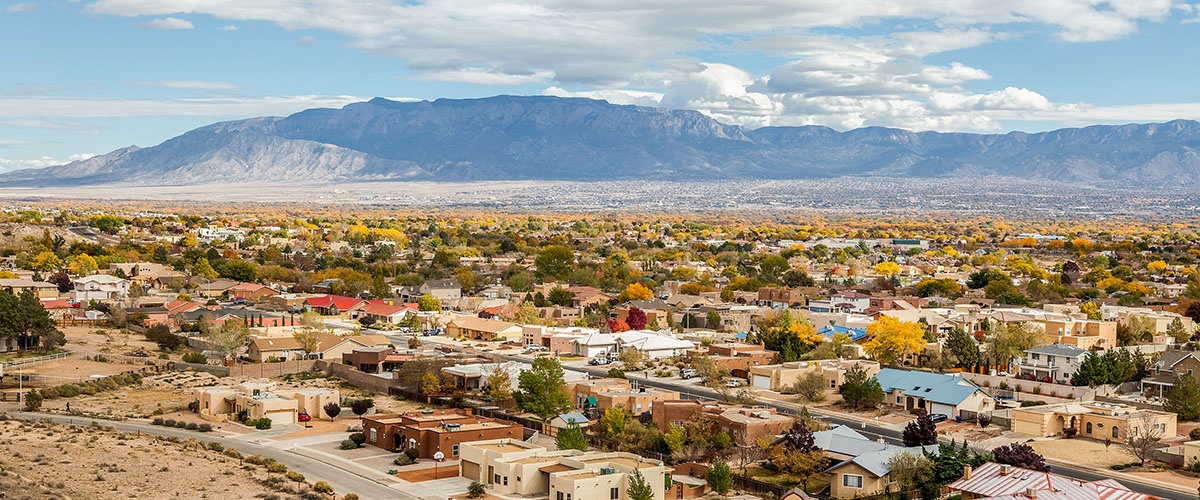
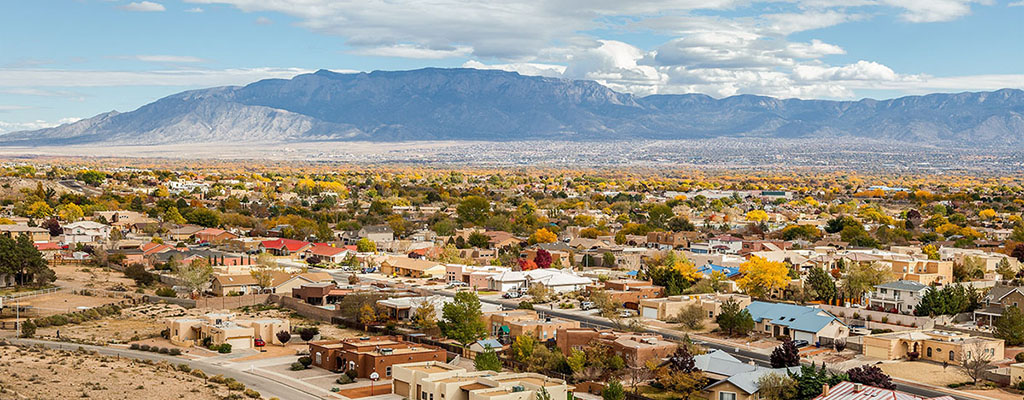
resize images, header hero image

diff --git a/09/css/styles.min.css b/09/css/styles.min.css
@@ -1,1 +1,1 @@
-/*! normalize.css v8.0.1 | MIT License | github.com/necolas/normalize.css */html{line-height:1.15;-webkit-text-size-adjust:100%}body{margin:0}main{display:block}h1{font-size:2em;margin:.67em 0}hr{box-sizing:content-box;height:0;overflow:visible}pre{font-family:monospace,monospace;font-size:1em}a{background-color:rgba(0,0,0,0)}abbr[title]{border-bottom:none;text-decoration:underline;-webkit-text-decoration:underline dotted;text-decoration:underline dotted}b,strong{font-weight:bolder}code,kbd,samp{font-family:monospace,monospace;font-size:1em}small{font-size:80%}sub,sup{font-size:75%;line-height:0;position:relative;vertical-align:baseline}sub{bottom:-0.25em}sup{top:-0.5em}img{border-style:none}button,input,optgroup,select,textarea{font-family:inherit;font-size:100%;line-height:1.15;margin:0}button,input{overflow:visible}button,select{text-transform:none}button,[type=button],[type=reset],[type=submit]{-webkit-appearance:button}button::-moz-focus-inner,[type=button]::-moz-focus-inner,[type=reset]::-moz-focus-inner,[type=submit]::-moz-focus-inner{border-style:none;padding:0}button:-moz-focusring,[type=button]:-moz-focusring,[type=reset]:-moz-focusring,[type=submit]:-moz-focusring{outline:1px dotted ButtonText}fieldset{padding:.35em .75em .625em}legend{box-sizing:border-box;color:inherit;display:table;max-width:100%;padding:0;white-space:normal}progress{vertical-align:baseline}textarea{overflow:auto}[type=checkbox],[type=radio]{box-sizing:border-box;padding:0}[type=number]::-webkit-inner-spin-button,[type=number]::-webkit-outer-spin-button{height:auto}[type=search]{-webkit-appearance:textfield;outline-offset:-2px}[type=search]::-webkit-search-decoration{-webkit-appearance:none}::-webkit-file-upload-button{-webkit-appearance:button;font:inherit}details{display:block}summary{display:list-item}template{display:none}[hidden]{display:none}html{-webkit-text-size-adjust:100%;-ms-text-size-adjust:100%}*{box-sizing:border-box;margin:0;padding:0}body{font-size:16px;font-family:"Source Sans Pro",sans-serif;font-weight:regular}header{padding:.5rem 2vw}header h1{padding:0;margin:0;font-family:"Maven Pro",sans-serif;color:#90493a;font-size:2.5rem}header h2{margin:.5rem 0;color:#745a5d;font-family:"Source Sans Pro",sans-serif;font-size:1.4rem}div#navWrapper{background-color:#018390}nav ul li{list-style-type:none}nav ul li a{display:block;padding:.75rem 2rem;font-size:.9rem;color:#fff;text-decoration:none}nav ul li.active a{background-color:#016c77}nav ul li a:hover{background-color:#019aa9}main{padding:0 2vw}main .swiper{width:100%;height:auto}main .swiper img{width:100%;height:auto}main h2{font-family:"Maven Pro",sans-serif;color:#c76c19;padding:1rem 0;font-size:1.75rem}div#footerWrapper{background-color:#018390}footer{padding:1rem 0}footer p{text-align:center;font-size:.8rem;color:#fff;padding:0}@media only screen and (min-width: 35rem){nav{padding:0 2vw}nav ul{display:flex;flex-direction:row}}@media only screen and (min-width: 64rem){header,nav,main,footer{max-width:75rem;margin:0 auto}}
+/*! normalize.css v8.0.1 | MIT License | github.com/necolas/normalize.css */html{line-height:1.15;-webkit-text-size-adjust:100%}body{margin:0}main{display:block}h1{font-size:2em;margin:.67em 0}hr{box-sizing:content-box;height:0;overflow:visible}pre{font-family:monospace,monospace;font-size:1em}a{background-color:rgba(0,0,0,0)}abbr[title]{border-bottom:none;text-decoration:underline;-webkit-text-decoration:underline dotted;text-decoration:underline dotted}b,strong{font-weight:bolder}code,kbd,samp{font-family:monospace,monospace;font-size:1em}small{font-size:80%}sub,sup{font-size:75%;line-height:0;position:relative;vertical-align:baseline}sub{bottom:-0.25em}sup{top:-0.5em}img{border-style:none}button,input,optgroup,select,textarea{font-family:inherit;font-size:100%;line-height:1.15;margin:0}button,input{overflow:visible}button,select{text-transform:none}button,[type=button],[type=reset],[type=submit]{-webkit-appearance:button}button::-moz-focus-inner,[type=button]::-moz-focus-inner,[type=reset]::-moz-focus-inner,[type=submit]::-moz-focus-inner{border-style:none;padding:0}button:-moz-focusring,[type=button]:-moz-focusring,[type=reset]:-moz-focusring,[type=submit]:-moz-focusring{outline:1px dotted ButtonText}fieldset{padding:.35em .75em .625em}legend{box-sizing:border-box;color:inherit;display:table;max-width:100%;padding:0;white-space:normal}progress{vertical-align:baseline}textarea{overflow:auto}[type=checkbox],[type=radio]{box-sizing:border-box;padding:0}[type=number]::-webkit-inner-spin-button,[type=number]::-webkit-outer-spin-button{height:auto}[type=search]{-webkit-appearance:textfield;outline-offset:-2px}[type=search]::-webkit-search-decoration{-webkit-appearance:none}::-webkit-file-upload-button{-webkit-appearance:button;font:inherit}details{display:block}summary{display:list-item}template{display:none}[hidden]{display:none}html{-webkit-text-size-adjust:100%;-ms-text-size-adjust:100%}*{box-sizing:border-box;margin:0;padding:0}body{font-size:16px;font-family:"Source Sans Pro",sans-serif;font-weight:400}header{padding:1rem 2vw;background-image:url(../images/header.jpg),linear-gradient(rgba(255, 255, 255, 0.7), rgba(255, 255, 255, 0.7));background-blend-mode:overlay;background-position:center;background-size:cover;background-repeat:none}header h1{padding:0;margin:0;font-family:"Maven Pro",sans-serif;color:#90493a;font-size:2.5rem;text-shadow:1px 1px 2px #fff}header h2{margin:.5rem 0;color:#745a5d;font-family:"Source Sans Pro",sans-serif;text-shadow:1px 1px 2px #fff}nav{background-color:#018390}nav ul li{list-style-type:none}nav ul li a{display:block;padding:.75rem 2rem;font-size:.9rem;color:#fff;text-decoration:none}nav ul li.active a{background-color:#016c77}nav ul li a:hover{background-color:#019aa9}main .swiper{width:100%;height:auto}main .swiper img{width:100%;height:auto}main h2{font-family:"Maven Pro",sans-serif;color:#c76c19;padding:1rem 0 1rem 2vw;font-size:1.75rem}footer{background-color:#018390;padding:1rem 0}footer p{text-align:center;font-size:.8rem;color:#fff;padding:0}@media only screen and (min-width: 35rem){nav{padding:0 2vw}nav ul{display:flex;flex-direction:row}}@media only screen and (min-width: 64rem){div#bodyWrapper{max-width:64rem;margin:0 auto;box-shadow:1px 3px 5px rgba(0,0,0,.4)}body{background-color:#e9e9e9}main{background-color:#fff}}

diff --git a/09/index.html b/09/index.html
@@ -26,13 +26,11 @@
     <title>City of Albuquerque</title>
   </head>
   <body>
-    <div id="headerWrapper">
+    <div id="bodyWrapper">
       <header>
         <h1>Visit Albuquerque!</h1>
         <h2>Change Your Perspective</h2>
       </header>
-    </div>
-    <div id="navWrapper">
       <nav>
         <ul id="primaryNav">
           <li class="active"><a href="#">Visit</a></li>
@@ -43,42 +41,54 @@
           <li><a href="#">Help</a></li>
         </ul>
       </nav>
-    </div>
-    <main>
-      <!-- Slider main container -->
-      <div class="swiper">
-        <!-- Additional required wrapper -->
-        <div class="swiper-wrapper">
-          <!-- Slides -->
-          <div class="swiper-slide">
-            <picture>
-              <source srcset="images/abq1_small.jpg" media="(max-width: 35rem)" />
-              <source srcset="images/abq1.jpg" media="(min-width: 35rem)" />
-              <img src="images/abq1.jpg" alt="panorama of Albuqerque" />
-            </picture>
+      <main>
+        <!-- Slider main container -->
+        <div class="swiper">
+          <!-- Additional required wrapper -->
+          <div class="swiper-wrapper">
+            <!-- Slides -->
+            <div class="swiper-slide">
+              <picture>
+                <source srcset="images/abq1_small.jpg" media="(max-width: 35rem)" />
+                <source srcset="images/abq1.jpg" media="(min-width: 35rem)" />
+                <img src="images/abq1.jpg" alt="panorama of Albuqerque" />
+              </picture>
+            </div>
+            <div class="swiper-slide">
+              <picture>
+                <source srcset="images/abq2_small.jpg" media="(max-width: 35rem)" />
+                <source srcset="images/abq2.jpg" media="(min-width: 35rem)" />
+                <img src="images/abq2.jpg" alt="photo of Old Town Albuquerque" />
+              </picture>
+            </div>
+            <div class="swiper-slide">
+              <picture>
+                <source srcset="images/abq3_small.jpg" media="(max-width: 35rem)" />
+                <source srcset="images/abq3.jpg" media="(min-width: 35rem)" />
+                <img src="images/abq3.jpg" alt="panorama of Albuqerque" />
+              </picture>
+            </div>
+            <div class="swiper-slide">
+              <picture>
+                <source srcset="images/abq4_small.jpg" media="(max-width: 35rem)" />
+                <source srcset="images/abq4.jpg" media="(min-width: 35rem)" />
+                <img src="images/abq4.jpg" alt="photo of Old Town Albuqerque" />
+              </picture>
+            </div>
+            <div class="swiper-slide">
+              <picture>
+                <source srcset="images/abq5_small.jpg" media="(max-width: 35rem)" />
+                <source srcset="images/abq5.jpg" media="(min-width: 35rem)" />
+                <img src="images/abq5.jpg" alt="panorama of the Rio Grande river" />
+              </picture>
+            </div>
           </div>
-          <div class="swiper-slide">
-            <picture>
-              <source srcset="images/abq2_small.jpg" media="(max-width: 35rem)" />
-              <source srcset="images/abq2.jpg" media="(min-width: 35rem)" />
-              <img src="images/abq2.jpg" alt="photo of Old Town Albuquerque" />
-            </picture>
-          </div>
-          <div class="swiper-slide">
-            <picture>
-              <source srcset="images/abq3_small.jpg" media="(max-width: 35rem)" />
-              <source srcset="images/abq3.jpg" media="(min-width: 35rem)" />
-              <img src="images/abq3.jpg" alt="panorama of Albuqerque" />
-            </picture>
-          </div>
+          <!-- If we need pagination -->
+          <div class="swiper-pagination"></div>
         </div>
-        <!-- If we need pagination -->
-        <div class="swiper-pagination"></div>
-      </div>
 
-      <h2>Plan Your Visit</h2>
-    </main>
-    <div id="footerWrapper">
+        <h2>Plan Your Visit</h2>
+      </main>
       <footer>
         <p>&copy; <span id="year"></span> &bull; Al Baker</p>
       </footer>

diff --git a/09/css/styles.css b/09/css/styles.css
@@ -327,12 +327,17 @@ html {
 body {
   font-size: 16px;
   font-family: "Source Sans Pro", sans-serif;
-  font-weight: regular;
+  font-weight: 400;
 }
 
 /* HEADER STYLING */
 header {
-  padding: 0.5rem 2vw;
+  padding: 1rem 2vw;
+  background-image: url(../images/header.jpg), linear-gradient(rgba(255, 255, 255, 0.7), rgba(255, 255, 255, 0.7));
+  background-blend-mode: overlay;
+  background-position: center;
+  background-size: cover;
+  background-repeat: none;
 }
 header h1 {
   padding: 0;
@@ -340,19 +345,19 @@ header h1 {
   font-family: "Maven Pro", sans-serif;
   color: #90493A;
   font-size: 2.5rem;
+  text-shadow: 1px 1px 2px #fff;
 }
 header h2 {
   margin: 0.5rem 0;
   color: #745A5D;
   font-family: "Source Sans Pro", sans-serif;
-  font-size: 1.4rem;
+  text-shadow: 1px 1px 2px #fff;
 }
 
 /* NAVIGATION STYLING */
-div#navWrapper {
+nav {
   background-color: #018390;
 }
-
 nav ul li {
   list-style-type: none;
 }
@@ -371,9 +376,6 @@ nav ul li a:hover {
 }
 
 /* MAIN STYLING */
-main {
-  padding: 0 2vw;
-}
 main .swiper {
   width: 100%;
   height: auto;
@@ -385,16 +387,13 @@ main .swiper img {
 main h2 {
   font-family: "Maven Pro", sans-serif;
   color: #C76C19;
-  padding: 1rem 0;
+  padding: 1rem 0 1rem 2vw;
   font-size: 1.75rem;
 }
 
 /* FOOTER STYLING */
-div#footerWrapper {
-  background-color: #018390;
-}
-
 footer {
+  background-color: #018390;
   padding: 1rem 0;
 }
 footer p {
@@ -419,13 +418,20 @@ footer p {
   /* FOOTER STYLING */
 }
 @media only screen and (min-width: 64rem) {
-  header, nav, main, footer {
-    max-width: 75rem;
-    margin: 0 auto;
-  }
   /* BODY STYLING */
+  div#bodyWrapper {
+    max-width: 64rem;
+    margin: 0 auto;
+    box-shadow: 1px 3px 5px rgba(0, 0, 0, 0.4);
+  }
+  body {
+    background-color: #e9e9e9;
+  }
   /* HEADER STYLING */
   /* NAVIGATION STYLING */
   /* MAIN STYLING */
+  main {
+    background-color: #fff;
+  }
   /* FOOTER STYLING */
 }

diff --git a/09/sass/_small.scss b/09/sass/_small.scss
@@ -17,32 +17,36 @@ html {
 body {
   font-size: 16px;
   font-family: $bodyFont;
-  font-weight: regular;
+  font-weight: $regular;
 }
 
 /* HEADER STYLING */
 header {
-  padding: 0.5rem 2vw;
+  padding: 1rem 2vw;
+  background-image: url(../images/header.jpg), linear-gradient(rgba(255, 255, 255, 0.7), rgba(255, 255, 255, 0.7));
+  background-blend-mode: overlay;
+  background-position: center;
+  background-size: cover;
+  background-repeat: none;
   h1 {
     padding: 0;
     margin: 0;
     font-family: $displayFont;
     color: $redBrown;
     font-size: 2.5rem;
+    text-shadow: 1px 1px 2px #fff;
   }
   h2 {
     margin: 0.5rem 0;
     color: $purple;
     font-family: $bodyFont;
-    font-size: 1.4rem;
+    text-shadow: 1px 1px 2px #fff;
   }
 }
 
 /* NAVIGATION STYLING */
-div#navWrapper {
-  background-color: $teal;
-}
 nav {
+  background-color: $teal;
   ul li {
     list-style-type: none;
   }
@@ -63,7 +67,6 @@ nav {
 
 /* MAIN STYLING */
 main {
-  padding: 0 2vw;
   .swiper {
     width: 100%;
     height: auto;
@@ -75,16 +78,14 @@ main {
   h2 {
     font-family: $displayFont;
     color: $darkOrange;
-    padding: 1rem 0;
+    padding: 1rem 0 1rem 2vw;
     font-size: 1.75rem;
   }
 }
 
 /* FOOTER STYLING */
-div#footerWrapper {
-  background-color: $teal;
-}
 footer {
+  background-color: $teal;
   padding: 1rem 0;
   p {
     text-align: center;

diff --git a/09/sass/_large.scss b/09/sass/_large.scss
@@ -1,14 +1,20 @@
-header, nav, main, footer {
-    max-width: 75rem;
-    margin: 0 auto;
-}
-
 /* BODY STYLING */
+div#bodyWrapper {
+  max-width: 64rem;
+  margin: 0 auto;
+  box-shadow: 1px 3px 5px rgba(0, 0, 0, 0.4);
+}
+body {
+    background-color: #e9e9e9;
+}
 
 /* HEADER STYLING */
 
 /* NAVIGATION STYLING */
 
 /* MAIN STYLING */
+main {
+  background-color: #fff;
+}
 
 /* FOOTER STYLING */

diff --git a/09/sass/_medium.scss b/09/sass/_medium.scss
@@ -4,7 +4,7 @@
 
 /* NAVIGATION STYLING */
 nav {
-    padding: 0 2vw;
+  padding: 0 2vw;
   ul {
     display: flex;
     flex-direction: row;
